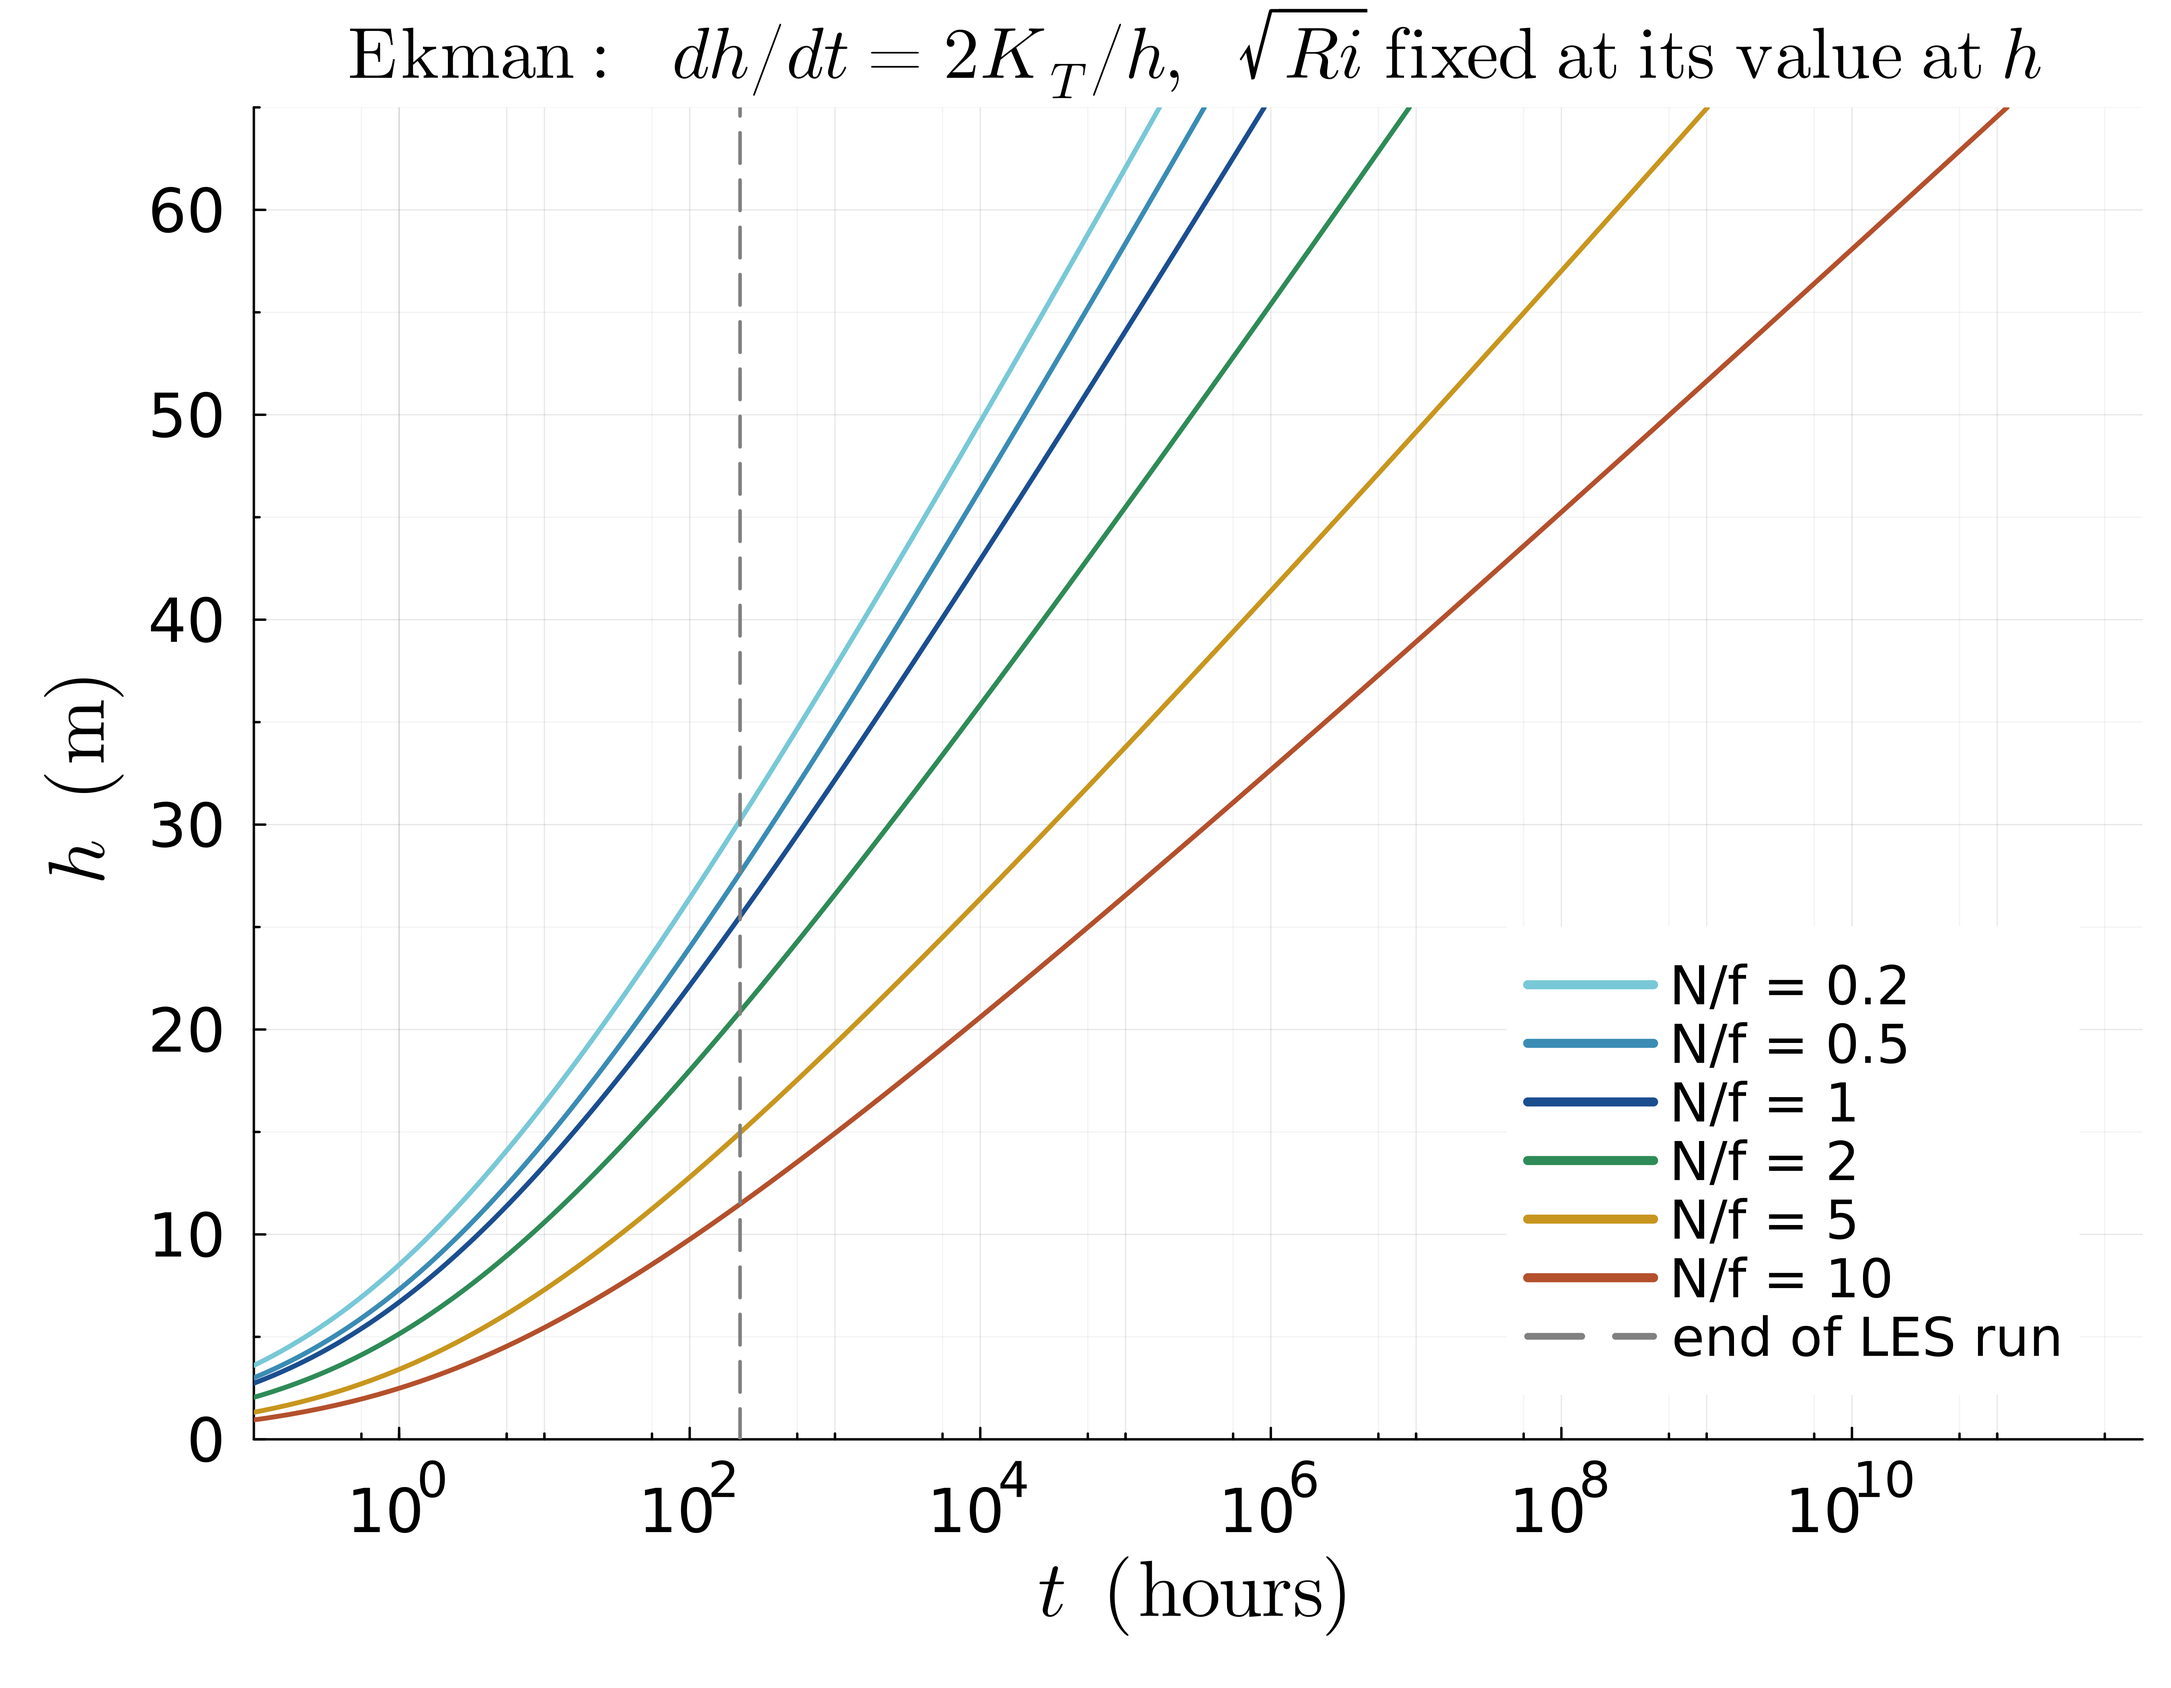
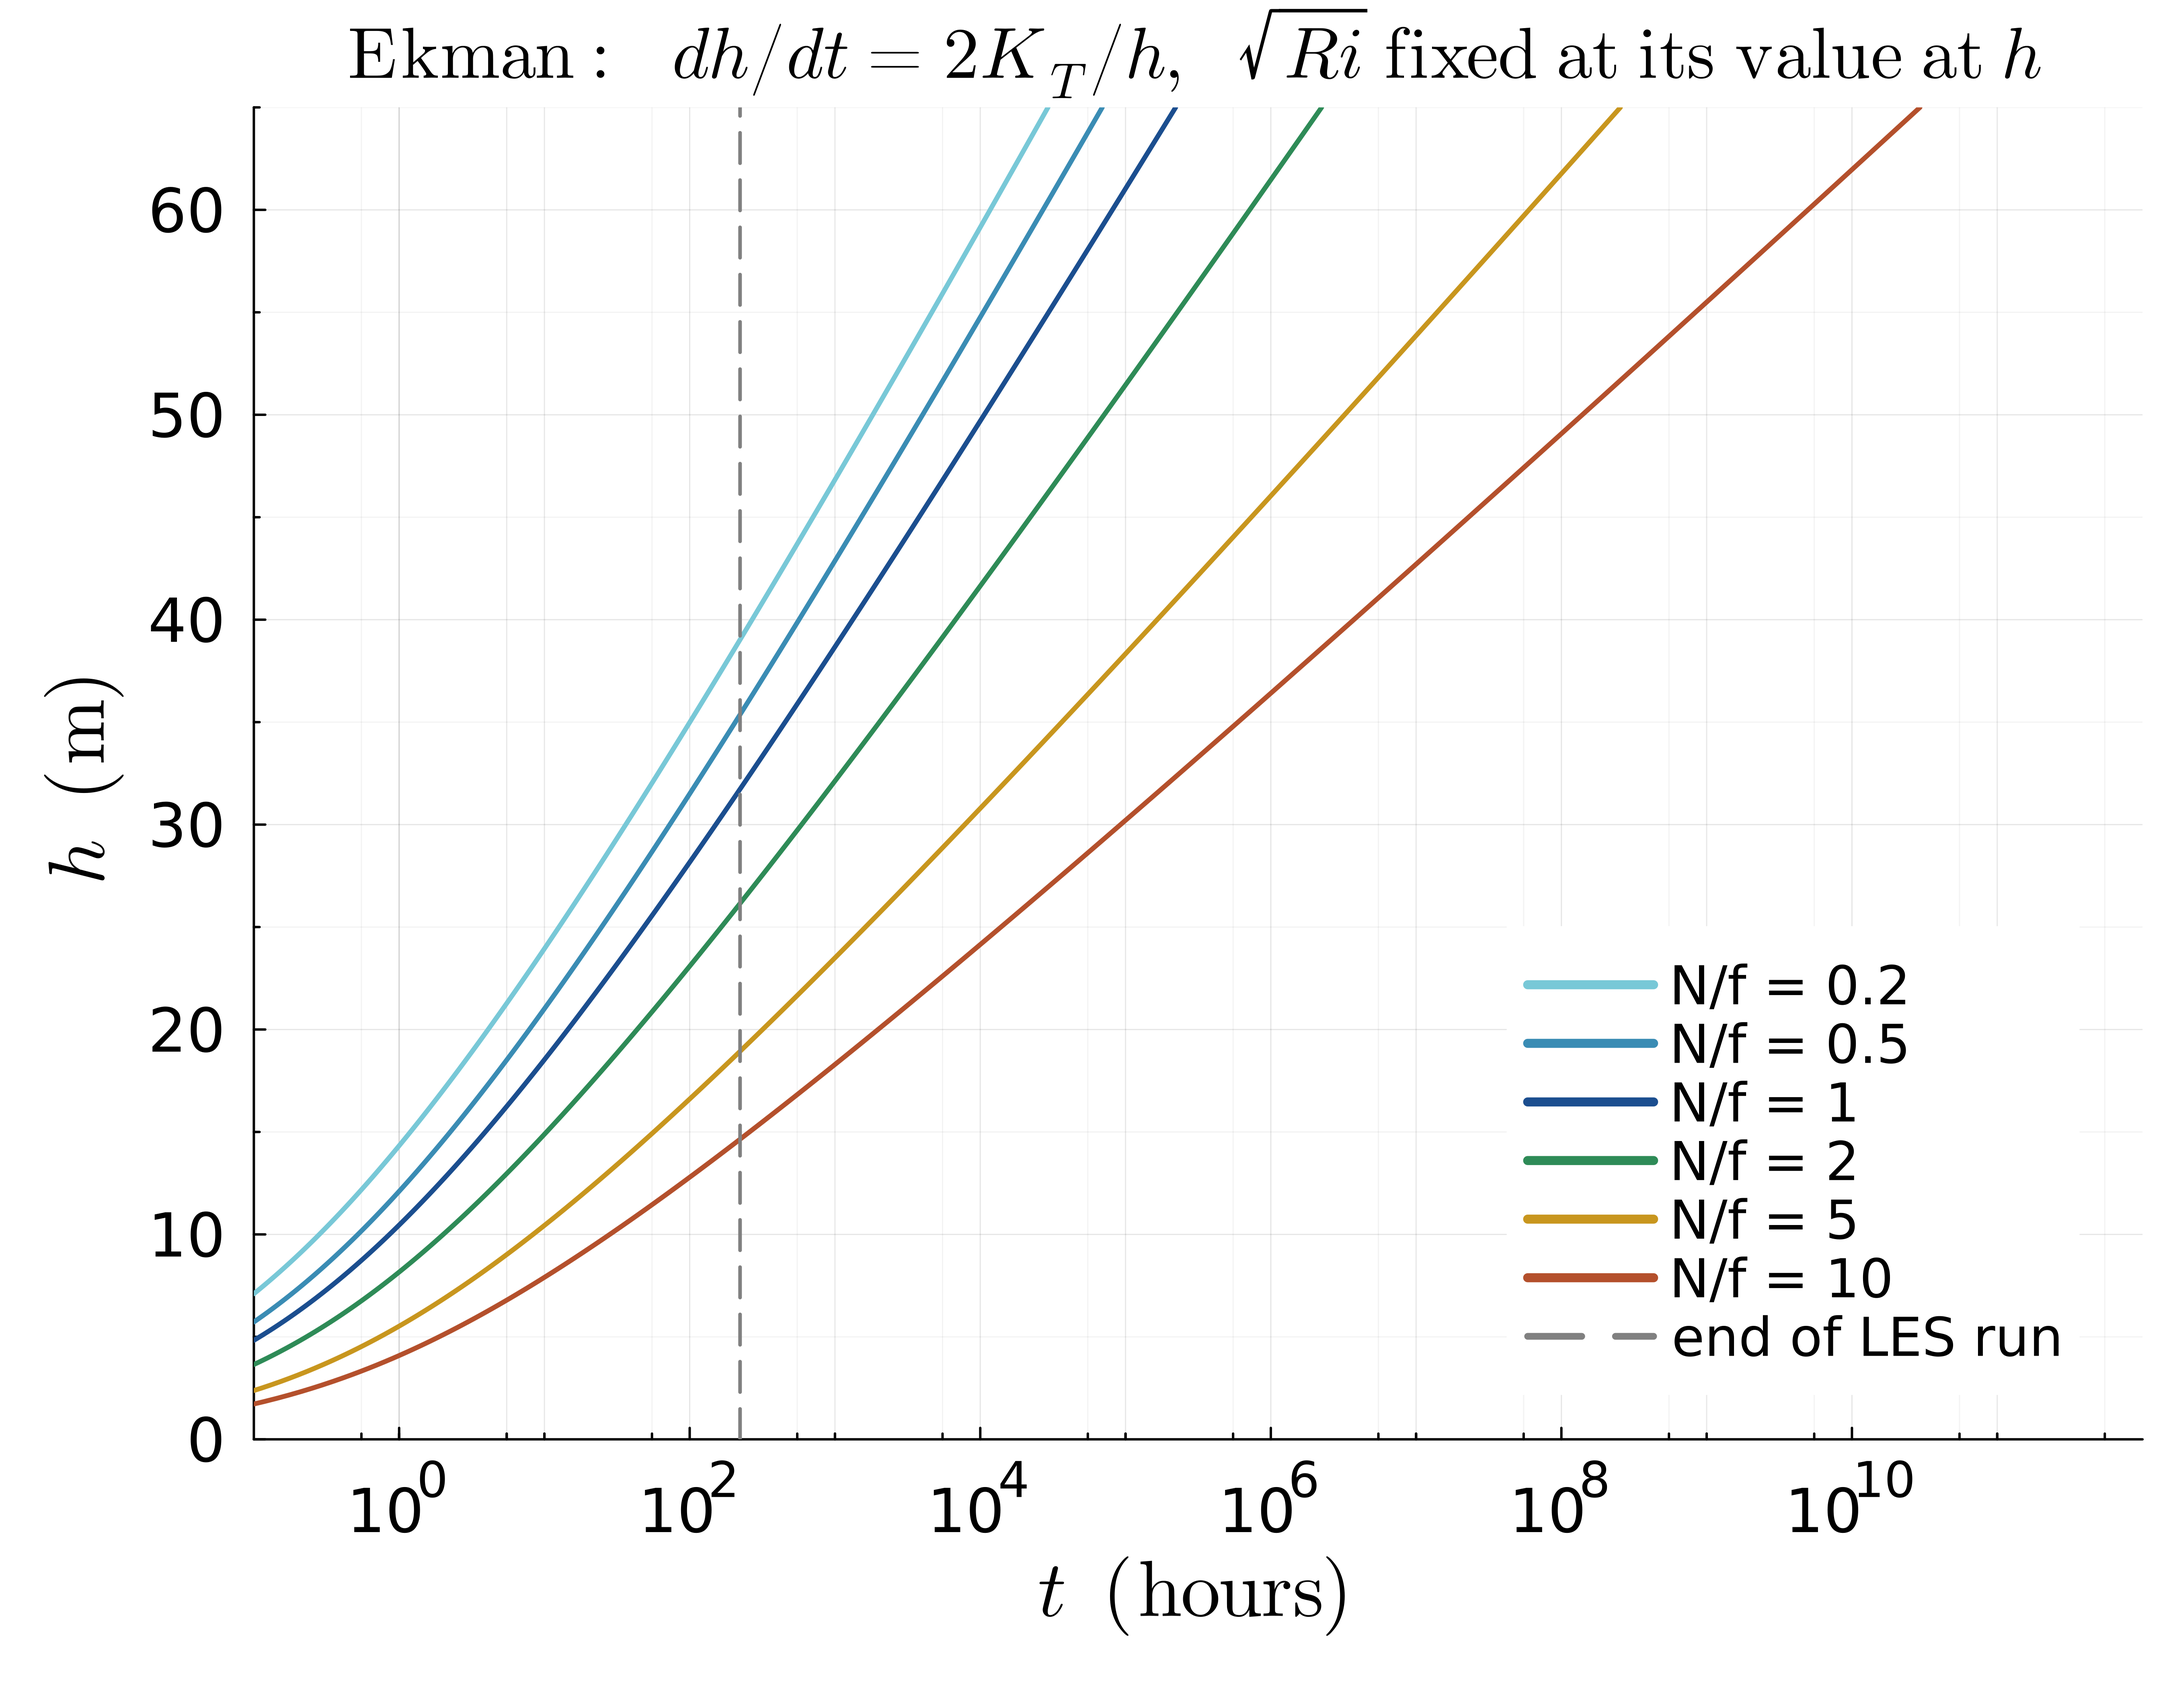
ri as a function of h

diff --git a/Combined/tables/growth_times_T10.tex b/Combined/tables/growth_times_T10.tex
@@ -24,12 +24,12 @@ $N/\omega$ & $h = 10$\,m & $h = 20$\,m & $h = 30$\,m & $h = 40$\,m & $h = 50$\,m
 \hline
 $N/f$ & $h = 10$\,m & $h = 20$\,m & $h = 30$\,m & $h = 40$\,m & $h = 50$\,m & $h = 60$\,m \\
 \hline
-0.2 & $1.7\times10^{0}$ & $2.4\times10^{1}$ & $2.1\times10^{2}$ & $1.6\times10^{3}$ & $1.1\times10^{4}$ & $6.9\times10^{4}$ \\
-0.5 & $2.6\times10^{0}$ & $4.0\times10^{1}$ & $3.7\times10^{2}$ & $2.9\times10^{3}$ & $2.0\times10^{4}$ & $1.4\times10^{5}$ \\
-1 & $3.5\times10^{0}$ & $5.9\times10^{1}$ & $6.2\times10^{2}$ & $5.4\times10^{3}$ & $4.3\times10^{4}$ & $3.3\times10^{5}$ \\
-2 & $8.1\times10^{0}$ & $1.7\times10^{2}$ & $2.4\times10^{3}$ & $2.7\times10^{4}$ & $2.9\times10^{5}$ & $2.9\times10^{6}$ \\
-5 & $3.3\times10^{1}$ & $1.3\times10^{3}$ & $3.1\times10^{4}$ & $6.6\times10^{5}$ & $1.3\times10^{7}$ & $2.4\times10^{8}$ \\
-10 & $1.1\times10^{2}$ & $7.9\times10^{3}$ & $3.7\times10^{5}$ & $1.5\times10^{7}$ & $5.5\times10^{8}$ & $2.0\times10^{10}$ \\
+0.2 & $2.8\times10^{-1}$ & $4.1\times10^{0}$ & $3.6\times10^{1}$ & $2.7\times10^{2}$ & $1.8\times10^{3}$ & $1.2\times10^{4}$ \\
+0.5 & $5.2\times10^{-1}$ & $7.9\times10^{0}$ & $7.3\times10^{1}$ & $5.7\times10^{2}$ & $4.0\times10^{3}$ & $2.7\times10^{4}$ \\
+1 & $8.6\times10^{-1}$ & $1.5\times10^{1}$ & $1.5\times10^{2}$ & $1.3\times10^{3}$ & $1.1\times10^{4}$ & $8.1\times10^{4}$ \\
+2 & $2.0\times10^{0}$ & $4.3\times10^{1}$ & $5.9\times10^{2}$ & $6.8\times10^{3}$ & $7.1\times10^{4}$ & $7.2\times10^{5}$ \\
+5 & $8.3\times10^{0}$ & $3.2\times10^{2}$ & $7.8\times10^{3}$ & $1.7\times10^{5}$ & $3.2\times10^{6}$ & $6.0\times10^{7}$ \\
+10 & $2.8\times10^{1}$ & $2.0\times10^{3}$ & $9.2\times10^{4}$ & $3.7\times10^{6}$ & $1.4\times10^{8}$ & $5.0\times10^{9}$ \\
 \hline
 \end{tabular}
 \end{table}

diff --git a/Combined/README.md b/Combined/README.md
@@ -539,6 +539,10 @@ value. That is self-regulation, a result rather than a defect.
 
 ### The Ekman figure itself — `plot/plot_KTstar_Ri_ekman_T10.jl`
 
+*Since 2026-10-11 this, not the z-scan, is the Ekman K_T\* used in the growth
+closure (background N, like Stokes), and it is trimmed for slides: no note, no
+rms, legend outside on the right, slide fonts, minor grid.*
+
 ```
 cd Combined
 GKSwstype=100 julia --project=. plot/plot_KTstar_Ri_ekman_T10.jl
@@ -1082,17 +1086,25 @@ with a dashed line at the end of the LES run) and `tables/growth_times_T10.tex`
 
     dh/dt = 2K_T/h,   K_T = K_T* TKE(h)/N,
     TKE(h) = A₁ u_*² e^(−A₂h/δ)      (pooled fits above)
-    K_T*   = A √Ri/(1+√Ri)            (A = 0.412 Stokes, 0.122 Ekman r < 25)
+    K_T*   = A √Ri/(1+√Ri)            (A = 0.412 Stokes, 0.330 Ekman; z = h, background N)
 
-**Assumption: √Ri at h is held at each run's measured value** (Stokes from the
-`z = h` figure, Ekman from the z-scan at `z/h = 1`), because S(h) has no model.
+**Assumption: √Ri at h is held at each run's measured value** (both from the
+`z = h`, background-`N` figures), because S(h) is not in the closure yet.
+
+**Corrected 2026-10-11 — the Ekman curves first used the wrong N.** They took
+`A = 0.122` and `√Ri` from the z-scan, where `K_T*` and `Ri` use the *local*
+`N`, but then formed `K_T = K_T* TKE/N` with the *background* `N`. At `z = h`
+the local gradient is `0.1 N²` by the definition of h, so local `N = 0.316 N`
+and Ekman `K_T` came out ×3.2 too small. Both flows now use background `N`
+throughout; Ekman `K_T*` at h rose from 0.02–0.06 to 0.13–0.26.
 K_T* is then a constant per run and, with `x = A₂h/δ`, `h(0) = 0`,
 
     t(h) = N δ² [(x − 1)eˣ + 1] / (2 K_T* A₁ u_*² A₂²)
 
 **Growth is effectively capped at a few δ.** TKE(h) falls as `e^(−A₂h/δ)`, so
 `t` grows like `eˣ`. Stokes (δ ≈ 4 m) reaches 10 m in 12–390 h but 60 m in
-10⁹–10¹² h; Ekman (δ = 17–34 m) reaches 60 m in 10⁴–10¹⁰ h. Beyond about
+10⁹–10¹² h; Ekman (δ = 17–34 m) reaches 10 m in 0.3–28 h and 60 m in
+1.2×10⁴–5×10⁹ h. Beyond about
 `h/δ ≈ 2.5` (Stokes) or `0.7` (Ekman) the curves are extrapolations of the
 TKE fit past any data and should be read as "does not grow", not as times.
 
@@ -1101,16 +1113,18 @@ inertial periods, against measured h):
 
 | r | Stokes model / LES (m) | Ekman model / LES (m) |
 |---|---|---|
-| 0.2 | 15.1 / 9.0 | 30.2 / 22.6 |
-| 1 | 15.6 / 11.3 | 25.5 / 20.7 |
-| 5 | 12.9 / 10.5 | 15.0 / 14.5 |
-| 10 | 11.4 / 9.8 | 11.5 / 11.5 |
+| 0.2 | 15.1 / 9.0 | 39.0 / 22.6 |
+| 1 | 15.6 / 11.3 | 31.7 / 20.7 |
+| 5 | 12.9 / 10.5 | 18.9 / 14.5 |
+| 10 | 11.4 / 9.8 | 14.7 / 11.5 |
 | 50 | 8.1 / 8.6 | — |
 
-Good at high N (within 5 %), 30–70 % too deep at low N. Two known reasons:
-the Stokes LES has a pycnocline at `z = T = 10 m` that the model does not
-(uniform N), and at low N `√Ri` at h is small so a fixed `Ri` is the weakest
-assumption there. The exponential also overestimates Stokes TKE(h) at high N
+Stokes is good at high N, 30–70 % too deep at low N. Ekman is now 28–73 % too
+deep everywhere — the earlier "within 5 %" at high N was the ×3.2 error
+cancelling the overshoot. Known reasons: the Stokes LES has a pycnocline at
+`z = T = 10 m` that the model does not (uniform N), and holding `Ri` fixed at
+its end-of-run value overestimates K_T* early on, when Ri at h was much smaller
+(see the Ri–h figures below). The exponential also overestimates Stokes TKE(h) at high N
 (stage-2 note), which this check does not show because it acts late.
 
 **How much the fixed-Ri choice can matter (2026-10-11).** K_T* is bounded by A,
@@ -1119,8 +1133,40 @@ curves: ×16 at Stokes r = 0.2, ×2.4 at r = 1, ≤ ×1.3 for r ≥ 5; Ekman ×5
 r = 0.2, ≈ ×2 otherwise. Against the eˣ growth of t(h) that does not move the
 stall. **A candidate S(h):** the shear implied at h, `S = N/√Ri`, matches the
 log-layer `u_*/(κh)` to within ×0.5–1.5 on all eight Stokes runs (×1.0 at
-r = 0.2, 0.5, 50), which would give `Ri(h) = (Nκh/u_*)²`. Not adopted yet;
-untested on Ekman, whose z-scan Ri uses the local gradient, not background N.
+r = 0.2, 0.5, 50), which would give `Ri(h) = (Nκh/u_*)²`. **Superseded the same day** by the
+Ri–h figures below: it fails badly for Ekman, and an exponential S(h) fits both.
+
+### Ri against h — `plot/plot_Ri_vs_h_T10.jl`                   (2026-10-11)
+
+`figures/Ri_vs_h_{stokes,ekman}_T10.png`. Ri at the layer top (background N,
+S at h) against h, followed through each run. Smoothed 2026-10-11: a running
+window of 2 tidal / inertial periods stepped every ¼ period, h the window mean
+and **Ri = N²/⟨S²⟩ (ratio of averages)** — S at h passes near zero twice per
+tide, so the earlier per-period median of N²/S² spiked. First period dropped
+(the flow has not reached h). Neighbouring points share data, so n below counts
+overlapping windows, not independent samples. Drawn as unjoined points, one
+per window position (the windows overlap, so a joining line implied more
+continuity than there is). Built from the full raw series,
+not the end-window caches. ~40 s.
+
+**Ekman: Ri rises steeply and cleanly with h** — e.g. N/f = 1 goes Ri 0.02 at
+h = 6 m → 13 at 21 m — and stops near 10, which is the self-regulation seen as
+it happens. **At a given h the shear hardly depends on N**: pooling every run
+and period,
+
+    S(h) = 3.24×10⁻³ e^(−h/4.72 m)   rms(ln S) 0.11, n = 285   (Ekman, N/f < 25)
+    S(h) = 6.20×10⁻³ e^(−h/3.16 m)   rms(ln S) 0.25, n = 168   (Stokes)
+
+(per-period medians gave 3.16×10⁻³, 4.64 m and 4.33×10⁻³, 3.29 m — the Ekman
+law barely moved; the Stokes prefactor did, because N²/⟨S²⟩ weights the
+low-shear phases of the tide differently from the median of N²/S²).
+
+so `Ri(h) = N² e^(2h/ℓ)/S₀²` (dashed on the figures). This is the missing S(h)
+of the closure, at least for Ekman. Stokes is looser — h barely moves (6–13 m)
+and at N/ω ≥ 10 the curves are near-vertical: h is held near the
+pycnocline (z ≈ T) while Ri still wanders — but the same form fits within
+×1.3. Both fits are dimensional (S₀, ℓ in s⁻¹ and m); whether ℓ scales with δ
+or u_*/f has not been tested on a second u_*.
 
 ### Stage 3 — the δ model for K_T
 

diff --git a/Combined/HANDOVER.md b/Combined/HANDOVER.md
@@ -59,7 +59,7 @@ STANDING RULES:
   Scripts live one level down and are invoked with their folder, e.g.
   `GKSwstype=100 julia --project=. plot/plot_delta_T10.jl`. The layout is
       Combined/sweep.jl, mixed_layer_height.jl   shared, included by everything
-      Combined/plot/     the 17 plot_* scripts (+ tables/ for .tex)
+      Combined/plot/     the 18 plot_* scripts (+ tables/ for .tex)
       Combined/reduce/   the 3 reduce_* scripts
       Combined/run/      ekmanrun.jl, swirles.sh
       Combined/Data/raw/      Ekman, Ekman_moments, lowN, rough_ekman
@@ -191,8 +191,14 @@ and tables/growth_times_T10.tex (time to h = 10..60 m). sqrt(Ri) at h is HELD
 FIXED per run (no S(h) model) and constants are hard-coded from the TKE-fit and
 K_T* logs — update them if those are rerun. Times past a few delta are
 extrapolation. Model h at run end matches LES within 5 % at high N, 30-70 %
-too deep at low N. Ri(h) candidate found 2026-10-11: S at h ~ u_*/(kappa h)
-(within x0.5-1.5, Stokes), Ri = (N kappa h/u_*)^2 — not yet used.
+too deep at low N. 2026-10-11: Ekman now uses
+the z = h BACKGROUND-N K_T* (A = 0.330), fixing a x3.2 error from mixing the
+z-scan's local N with background N; Ekman model h now overshoots LES 28-73 %.
+plot_Ri_vs_h_T10.jl: S at h is ~independent of N, S(h) = 3.24e-3 e^(-h/4.72)
+(Ekman, tight) / 6.20e-3 e^(-h/3.16) (Stokes, loose) — 2-period running window,
+Ri = N^2/<S^2> — the S(h) the closure
+lacked, not yet put into the growth curves. NEVER mix local-N and
+background-N K_T* or Ri.
 
 2026-10-09: KTstar_vs_Ri_stokes_T10.png and ..._zscan_ekman_lowr_T10.png
 trimmed for slides (no rms or n in legends, no caveat note, shorter Stokes title,
